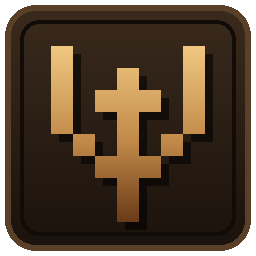
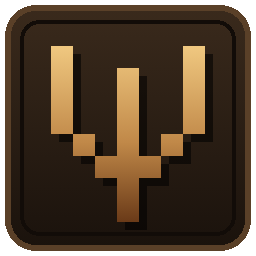
Remove the crossbar from the q/Q nail
Claude-Session: https://claude.ai/code/session_019BsfsLDiXgnDVKFoypnbFe

Changed region(s): [[0.5312, 0.3438, 0.6875, 0.4688], [0.3438, 0.3438, 0.4688, 0.4688]]

diff --git a/src/glyph.js b/src/glyph.js
@@ -1,8 +1,8 @@
 'use strict';
 
 // Pixel-art glyphs shaped like the Quake 1 logo: a ring open at the top with
-// a nail (crossbar near its head) through the middle, its point hanging below
-// the baseline like the letter's tail.
+// a nail through the middle, its point hanging below the baseline like the
+// letter's tail.
 // '#' = pixel, '.' = empty. `ascent` is the number of rows above the baseline.
 const GLYPHS = {
   q: {
@@ -10,7 +10,7 @@ const GLYPHS = {
     rows: [
       '#.....#',
       '#..#..#',
-      '#.###.#',
+      '#..#..#',
       '#..#..#',
       '.#.#.#.',
       '..###..',
@@ -24,7 +24,7 @@ const GLYPHS = {
       '#.....#',
       '#.....#',
       '#..#..#',
-      '#.###.#',
+      '#..#..#',
       '#..#..#',
       '.#.#.#.',
       '..###..',
